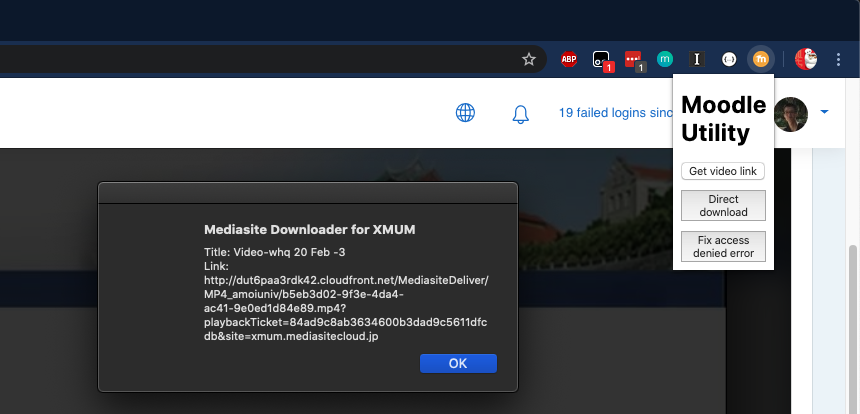
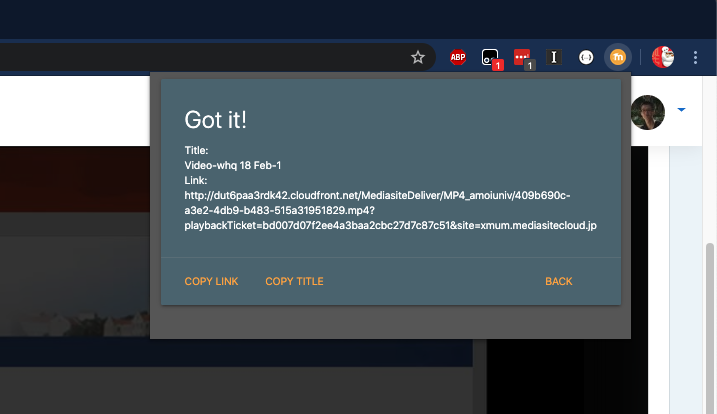
Update readme and image

diff --git a/README.md b/README.md
@@ -21,7 +21,7 @@
 至此，安装成功<br>
 
 ## 功能介绍
-点击`Get get link`之后稍待片刻下载链接便会弹出。其中title为文件名，link为下载链接。你可以复制整段链接，并将其粘贴在你的下载器中（IDM, FDM, aria2, 迅雷, etc）即可开始下载。你也可以将链接粘贴至chrome的地址栏，便可更快地打开视频。<br>
+点击`Get video link`之后稍待片刻下载链接便会出现。其中title为文件名，link为下载链接。你可以复制链接，并将其粘贴在你的下载器中（IDM, FDM, aria2, 迅雷, etc）即可开始下载。你也可以将链接粘贴至chrome的地址栏，便可更快地打开视频。<br>
 ![alt text](https://github.com/Flyingblu/XMUM-Mediasite-downloader/raw/master/images/link.png "link")<br><br>
 点击`Direct download`可直接用浏览器下载该视频<br>
 点击`Fix access denied error`可一键修复access denied<br>
